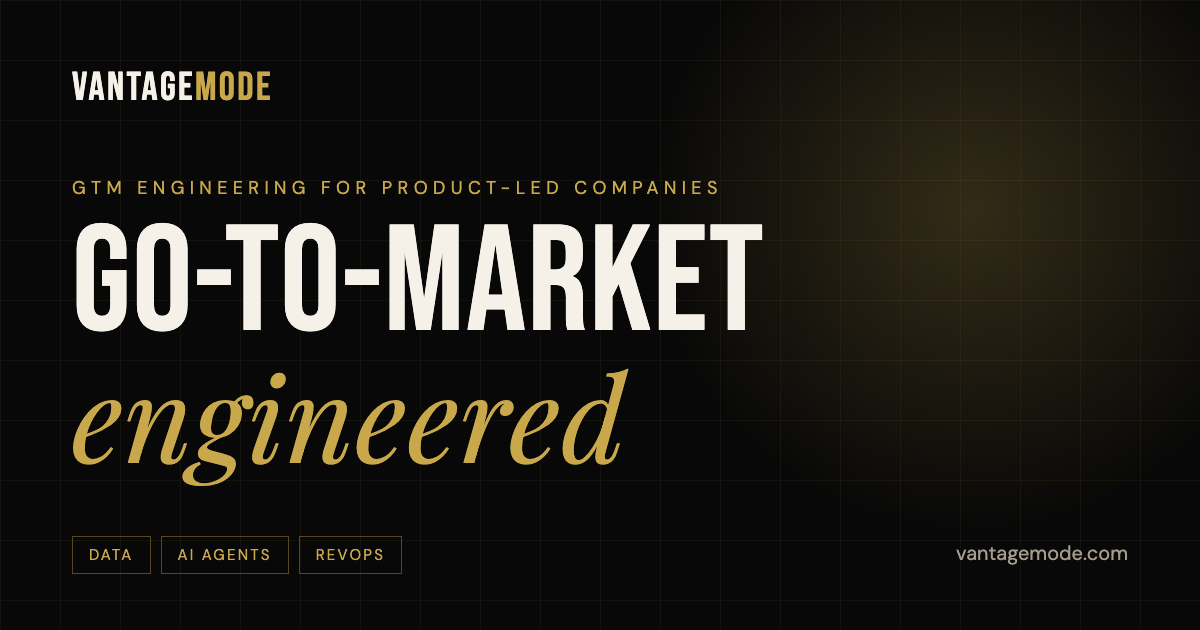
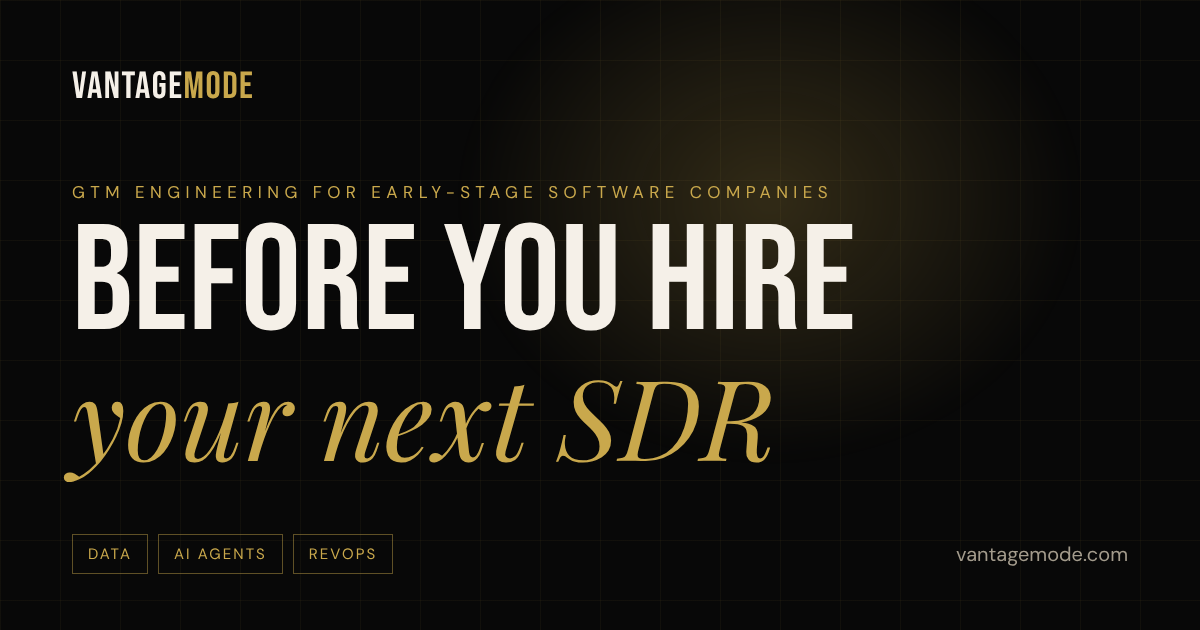
Update share image to the new headline
og.png now matches the hero: "BEFORE YOU HIRE your next SDR" and the
early-stage software eyebrow. The og:image and twitter:image URLs gain ?v=2
so LinkedIn and Slack fetch the new image instead of a cached copy.

Claude-Session: https://claude.ai/code/session_01AfAz9n3twsd5uoTsbkeUBu

diff --git a/index.html b/index.html
@@ -11,14 +11,14 @@
 <meta property="og:title" content="Vantage Mode | GTM Engineering for Early-Stage Software Companies">
 <meta property="og:description" content="Go-to-market, engineered. Data, AI agents, CRM, and outbound systems for early-stage software companies growing their sales team.">
 <meta property="og:url" content="https://www.vantagemode.com/">
-<meta property="og:image" content="https://www.vantagemode.com/og.png">
+<meta property="og:image" content="https://www.vantagemode.com/og.png?v=2">
 <meta property="og:image:width" content="1200">
 <meta property="og:image:height" content="630">
 <meta property="og:image:alt" content="Vantage Mode: Go-to-market, engineered.">
 <meta name="twitter:card" content="summary_large_image">
 <meta name="twitter:title" content="Vantage Mode | GTM Engineering for Early-Stage Software Companies">
 <meta name="twitter:description" content="Go-to-market, engineered. Data, AI agents, CRM, and outbound systems for early-stage software companies growing their sales team.">
-<meta name="twitter:image" content="https://www.vantagemode.com/og.png">
+<meta name="twitter:image" content="https://www.vantagemode.com/og.png?v=2">
 <meta name="theme-color" content="#080808">
 <script type="application/ld+json">{"@context": "https://schema.org", "@type": "ProfessionalService", "name": "Vantage Mode", "url": "https://www.vantagemode.com/", "logo": "https://www.vantagemode.com/og.png", "image": "https://www.vantagemode.com/og.png", "description": "GTM engineering for early-stage software companies growing their sales team. We build the systems behind your pipeline: account data, Clay enrichment, AI research agents, scoring, HubSpot sync, and outbound.", "email": "will@vantagemode.com", "areaServed": "Worldwide", "address": {"@type": "PostalAddress", "addressLocality": "Princeton", "addressRegion": "NJ", "addressCountry": "US"}, "founder": {"@type": "Person", "name": "William Mauro", "jobTitle": "GTM Engineer"}, "knowsAbout": ["GTM engineering", "Clay", "HubSpot", "Lead scoring", "AI research agents", "Outbound automation", "Product-led growth"], "sameAs": ["https://www.linkedin.com/company/vantage-mode", "https://www.instagram.com/vantagemode"]}</script>
 <script type="application/ld+json">{"@context": "https://schema.org", "@type": "FAQPage", "mainEntity": [{"@type": "Question", "name": "What does a GTM engineer actually do?", "acceptedAnswer": {"@type": "Answer", "text": "A GTM engineer builds the systems your sales and marketing teams run on: where account data comes from, how it gets enriched and researched, how leads are scored and routed, how records sync to your CRM, and how outreach and reporting work. Think of it as software engineering pointed at pipeline instead of product."}}, {"@type": "Question", "name": "Do you work in our existing stack?", "acceptedAnswer": {"@type": "Answer", "text": "Yes. Our default stack is Clay, HubSpot, Supabase, and Claude, but the approach does not depend on any one tool. We start from what you already pay for and only add something new when it clearly earns its place."}}, {"@type": "Question", "name": "Will you send email on our behalf?", "acceptedAnswer": {"@type": "Answer", "text": "By default, no. We build the drafting, review, and sending infrastructure, and a person on your team approves what goes out. Sending domains are kept separate from your main domain, suppression lists are honored, and every message stays CAN-SPAM compliant."}}, {"@type": "Question", "name": "How do you keep AI research accurate?", "acceptedAnswer": {"@type": "Answer", "text": "Agents have to cite the page where they found each answer, and they are graded against a hand-labeled set of your real accounts before they run on the full list. Anything uncertain goes to a human review step instead of straight into your CRM."}}, {"@type": "Question", "name": "Do you still produce video?", "acceptedAnswer": {"@type": "Answer", "text": "Yes, as part of go-to-market. Launch films, ad creative, founder content, and product demos are produced in house, so the creative and the pipeline it runs through are planned together."}}, {"@type": "Question", "name": "How does pricing work?", "acceptedAnswer": {"@type": "Answer", "text": "Audits and builds are fixed-scope and fixed-price, whether you start with one piece or the full pipeline. Fractional work and upkeep are monthly retainers. Tools like Clay and your sequencer run on your own accounts, and you pay those vendors directly. After a discovery call, we send a proposal with clear deliverables, a timeline, and a price. No surprises."}}]}</script>
